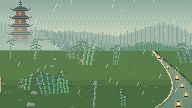
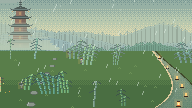
feat: richer skies in some sceneries

diff --git a/web/envs/bamboo.js b/web/envs/bamboo.js
@@ -20,7 +20,7 @@ const H6 = a => a.map(hex);
 // fresh jade, a deeper green and a cool sage for the leaves; a blue-green for the second kind.
 // Tones run outline, shade, mid, lit, highlight; the canes use them too, so they yellow as well.
 const JADE = H6(['#163424', '#2a6040', '#3f8a4e', '#6cb45c', '#a8d87a']);
-const DEEP = H6(['#112a1e', '#1f4c2e', '#2f6e3c', '#4f944c', '#86bc6c']);
+const DEEP = H6(['#0e2419', '#1a4228', '#286236', '#468a44', '#7cb262']);
 const SAGE = H6(['#182e28', '#335646', '#517a64', '#7aa286', '#b0cca8']);
 const TEAL = H6(['#10302c', '#1f5448', '#2e7a62', '#4ea27a', '#8ccc98']);
 const LAMP = '#ffcf7a', LAMP_D = '#e0763a';
@@ -407,12 +407,12 @@ AF.env('bamboo', {
     if (!th.rain) return;
     const dusk = mood.time === 'dusk';
     // night is a deep green-blue, light enough that the canes and the far groves still read
-    th.sky = nightTime ? ['#182c32', '#1e363a', '#244040', '#2c4a46', '#36564c', '#406052']
+    th.sky = nightTime ? ['#162a32', '#1c343a', '#223e40', '#2a4846', '#3a564c', '#4c6452']
       : dusk ? ['#3a4a50', '#4e5e5c', '#687468', '#8a8a74', '#a8987c', '#b8a484']
-      : ['#6e8c84', '#82a096', '#98b2a6', '#b0c4b2', '#c8d4bc', '#dad8bc'];
+      : ['#62807e', '#7a9894', '#96b0a4', '#b8c8ae', '#d8d6b0', '#ece2b8'];  // (light breaking low through the rain: warm and bright behind the grove)
     Object.assign(th, nightTime
       ? { far: '#30504a', near: '#28463c', haze: '#3a5a52', g0: '#2e4c34', g1: '#203826', grass: '#3e5e40', tint: '#14302a', tintAmt: 0.16 }
-      : { far: dusk ? '#5e6e66' : '#8aa89c', near: dusk ? '#4e6454' : '#6e9a80', haze: dusk ? '#8a8e80' : '#b8ccbc', tint: '#3e5a48', tintAmt: 0.12 });
+      : { far: dusk ? '#647470' : '#9cb8b6', near: dusk ? '#506656' : '#78a28e', haze: dusk ? '#909690' : '#c6d8d4', tint: '#3e5a48', tintAmt: 0.12 });  // (further is paler and bluer: atmospheric perspective)
     th.water = nightTime ? '#142e30' : dusk ? '#23403c' : '#2a5048';
     th.clouds = { n: 5, top: nightTime ? '#2a4042' : '#c4d2c8', bot: nightTime ? '#1c3032' : '#9eb2a8', a: 235, y0: 0, dy: 0.12, speed: 0.8 };
     th.deck = { n: 3, top: nightTime ? '#20343a' : '#b0c2b6', bot: nightTime ? '#162828' : '#8ea49a', a: 245 };

diff --git a/web/envs/frozen_market.js b/web/envs/frozen_market.js
@@ -43,7 +43,7 @@ const LOOKS = {
     far: '#3a3662', near: '#2c2a50', g0: '#8c8ab8', g1: '#5c5a8c', grass: '#aeacd2', haze: '#5c5684', hzStep: 0.1,
     water: '#4a4a7a', clouds: null, stars: 0, birdC: '#1a1830', shadow: 0 },
   night: {
-    sky: ['#03060f', '#060c1c', '#0a1328', '#0f1a36', '#162240', '#1e2a4c'],
+    sky: ['#03050e', '#050a19', '#0a1328', '#0f1a36', '#1f294b', '#253055'],
     far: '#141c34', near: '#10162a', g0: '#4c5c84', g1: '#2e3a5c', grass: '#6c7ca4', haze: '#1e2848', hzStep: 0.1,
     water: '#1d2a4a', clouds: null, stars: 0, birdC: '#0a0e1c', shadow: 0 },
   dawn: {
@@ -51,7 +51,7 @@ const LOOKS = {
     far: '#6a6a90', near: '#56587e', g0: '#b6bad6', g1: '#8a8eb2', grass: '#d2d4e8', haze: '#9c96b6', hzStep: 0.11,
     water: '#9a9ac0', clouds: { n: 3, top: '#f6dcd6', bot: '#b89cb4', a: 225 }, stars: 0, birdC: '#3a3450', shadow: 0 },
   day: {
-    sky: ['#6a94c6', '#82a8d2', '#9cbcdc', '#b4cee6', '#cadcee', '#dce8f2'],
+    sky: ['#5c84ba', '#6f94c4', '#9cbcdc', '#b4cee6', '#d6dde0', '#e4e6e3'],  // (deeper at the top, warmer low down: the snow and the town stand against it)
     far: '#9aaccc', near: '#8ea0bc', g0: '#e0e8f3', g1: '#bcc9de', grass: '#f0f4fa', haze: '#c4d2e2', hzStep: 0.12,
     water: '#a8c0dc', clouds: { n: 4, top: '#ffffff', bot: '#d8e2ee', a: 240 }, stars: 0, birdC: '#3d4a5a', shadow: 0.5 },
 };

diff --git a/web/envs/synthwave.js b/web/envs/synthwave.js
@@ -18,7 +18,8 @@ const H6 = a => a.map(hex);
 const HOURS = {
   dawn: { sky: ['#1a1040', '#3a2a6a', '#6a4a8a', '#c06a9a', '#ff9a9a', '#ffc4a0'], sun: { y: 0.37, r: 21, c: '#fff0b0', c2: '#ff7a8a' },
           far: '#3a2a5a', farLine: '#ffb0d0', near: '#2a1a4a', nearLine: '#ff8ab0', g0: '#1e0f38', g1: '#120826', clouds: ['#ffb8c8', '#c07aa0'] },
-  day: { sky: ['#4a3a8a', '#6a58a8', '#8c78c0', '#b098d4', '#d4b8e4', '#ecd4ee'], sun: { y: 0.22, r: 21, c: '#fff4d0', c2: '#ffc0a0' },
+  // (day: a deeper top, a warmer horizon under the sun)
+  day: { sky: ['#423c8a', '#5c54a2', '#8c78c0', '#b098d4', '#ddc1d9', '#f0d7e0'], sun: { y: 0.22, r: 21, c: '#fff4d0', c2: '#ffc0a0' },
          far: '#5a4a90', farLine: '#f0e0ff', near: '#3e3070', nearLine: '#ff9ad8', g0: '#241a4a', g1: '#160e34', clouds: ['#f4ecff', '#c8b8e8'] },
   golden_hour: { sky: ['#140430', '#3a0a50', '#7a1e5a', '#c0405a', '#f07a50', '#ffb060'], sun: { y: 0.31, r: 21, c: '#ffe070', c2: '#ff5a3a' },
                  far: '#3a0e40', farLine: '#ffb04a', near: '#240830', nearLine: '#ff6a8a', g0: '#1a0428', g1: '#0e0118', clouds: ['#ff9a6a', '#8a2a5a'] },

diff --git a/web/envs/lanterns.js b/web/envs/lanterns.js
@@ -312,10 +312,13 @@ AF.env('lanterns', {
 
   after(th, mood) {
     const night = isLit(mood), w = mood.weather;
+    // (by day a richer sky: a deeper blue at the top, warmer low down, so the crowns and the
+    // lantern strings have more to stand against)
+    if (mood.time === 'day' && (!w || w === 'clear')) th.sky = ['#5c92c8', '#6f9fce', '#9cc6e6', '#b5d4ea', '#d8e0dd', '#e7e9dc'];
     if (night) {
       Object.assign(th, { g0: '#2e1a30', g1: '#1c1020', grass: '#44263e', far: '#2e1c3c', near: '#241430', haze: '#4a2a4c',
         tint: '#1d1530', tintAmt: 0.12, water: '#2e1f40', rim: null });
-      th.sky = ['#0c0922', '#1c1238', '#2e1846', '#44204e', '#5e2a54', '#7a3658'];
+      th.sky = ['#0a081e', '#170f2f', '#2e1846', '#44204e', '#57305b', '#6d395e'];  // (a deeper top, a faint glow low down: a richer sky to frame the lanterns)
       if (CFG.moon.own) {
         // a full festival moon on the right third, painted by this environment; the engine's
         // orb only keeps the glitter on the water under it (gone where the weather hides it)

diff --git a/web/envs/aurora.js b/web/envs/aurora.js
@@ -144,6 +144,10 @@ AF.env('aurora', {
       ? { sky: ['#01050b', '#030d17', '#05141f', '#071a26', '#081d2a', '#0a202e'],
           g0: '#6e8cae', g1: '#46628a', grass: '#a8c0d8', haze: '#22384c', hzStep: 0.09, tint: '#0a1a2a', tintAmt: 0.08, water: '#0e1e30' }
       : { g0: '#e4ecf4', g1: '#c4d2e2', grass: '#f4f8fc' });
+    // (by day a deeper polar blue: under the plain day sky the snowy forest, the snow and the sky
+    // sat within 0.05 of each other in lightness, so the forest had nothing to stand against;
+    // dawn and golden hour keep their own warm skies)
+    if (!night && mood.time === 'day') th.sky = ['#4a80c4', '#6290cc', '#7ea4d4', '#9cb9de', '#bccfe6', '#d6e2ee'];
     if (th.clouds) th.clouds.n = 0;  // nothing drifting across the lights
   },
   pals: { round: GHOST, pine: SPRUCE, bark: BARK, leaf: hex('#23604c'), leafL: hex('#7af0b4'), stem: hex('#4a4652') },

diff --git a/web/envs/misty_valley.js b/web/envs/misty_valley.js
@@ -74,6 +74,12 @@ AF.env('misty_valley', {
   },
 
   after(th, mood) {
+    // by day and by night a richer sky behind the mist: a deeper top, a warmer (by night, a faintly
+    // lit) band low down, so the sun's rays and the peaks have more to stand against
+    if (mood.time === 'day' || mood.time === 'night') {
+      const night = mood.time === 'night', n = th.sky.length;
+      th.sky = th.sky.map((c, i) => i < 2 ? AF.u.mixHex(c, night ? '#02030c' : '#24448a', 0.2) : i >= n - 2 ? AF.u.mixHex(c, night ? '#3e4474' : '#ffe0b0', 0.22) : c);
+    }
     // a sunrise worth getting up for: the fog warms to peach and gold low in the sky,
     // and stays pale enough that the dark dew-blue trees stand out against it
     if (mood.time === 'dawn' || mood.time === 'golden_hour') {
